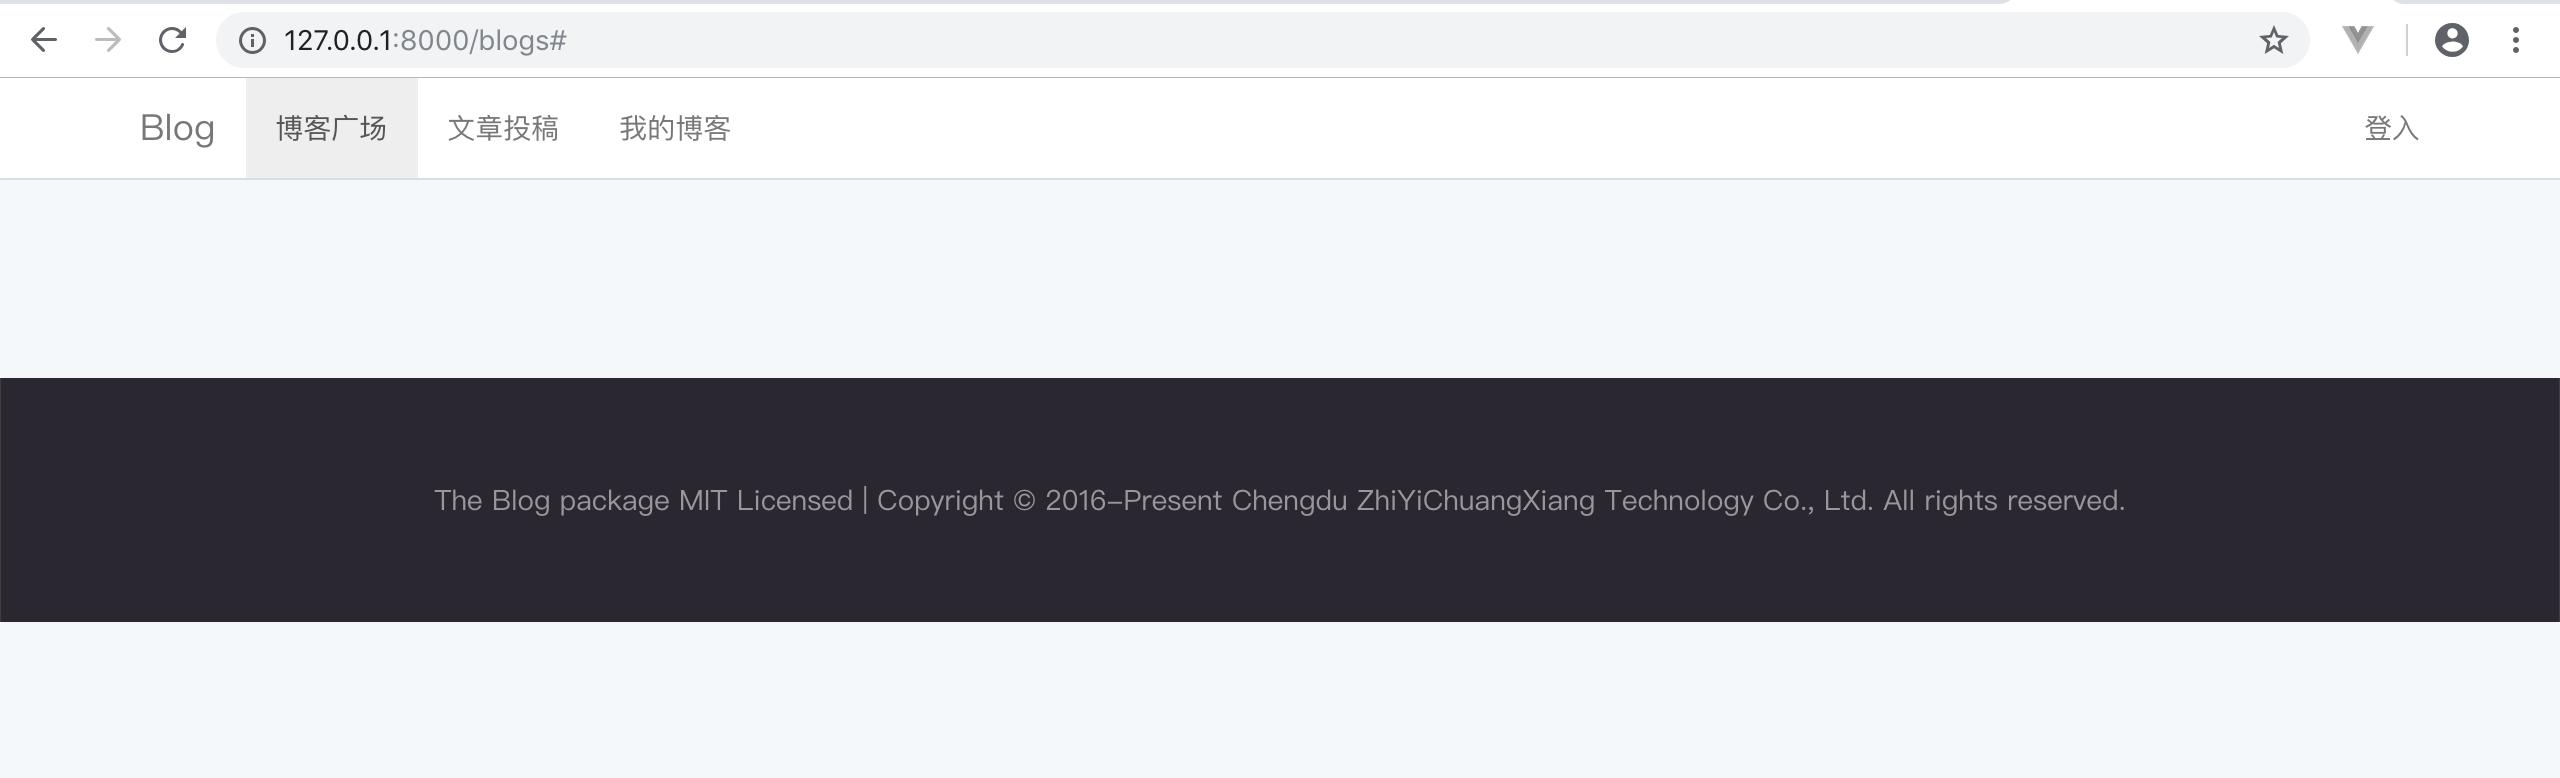
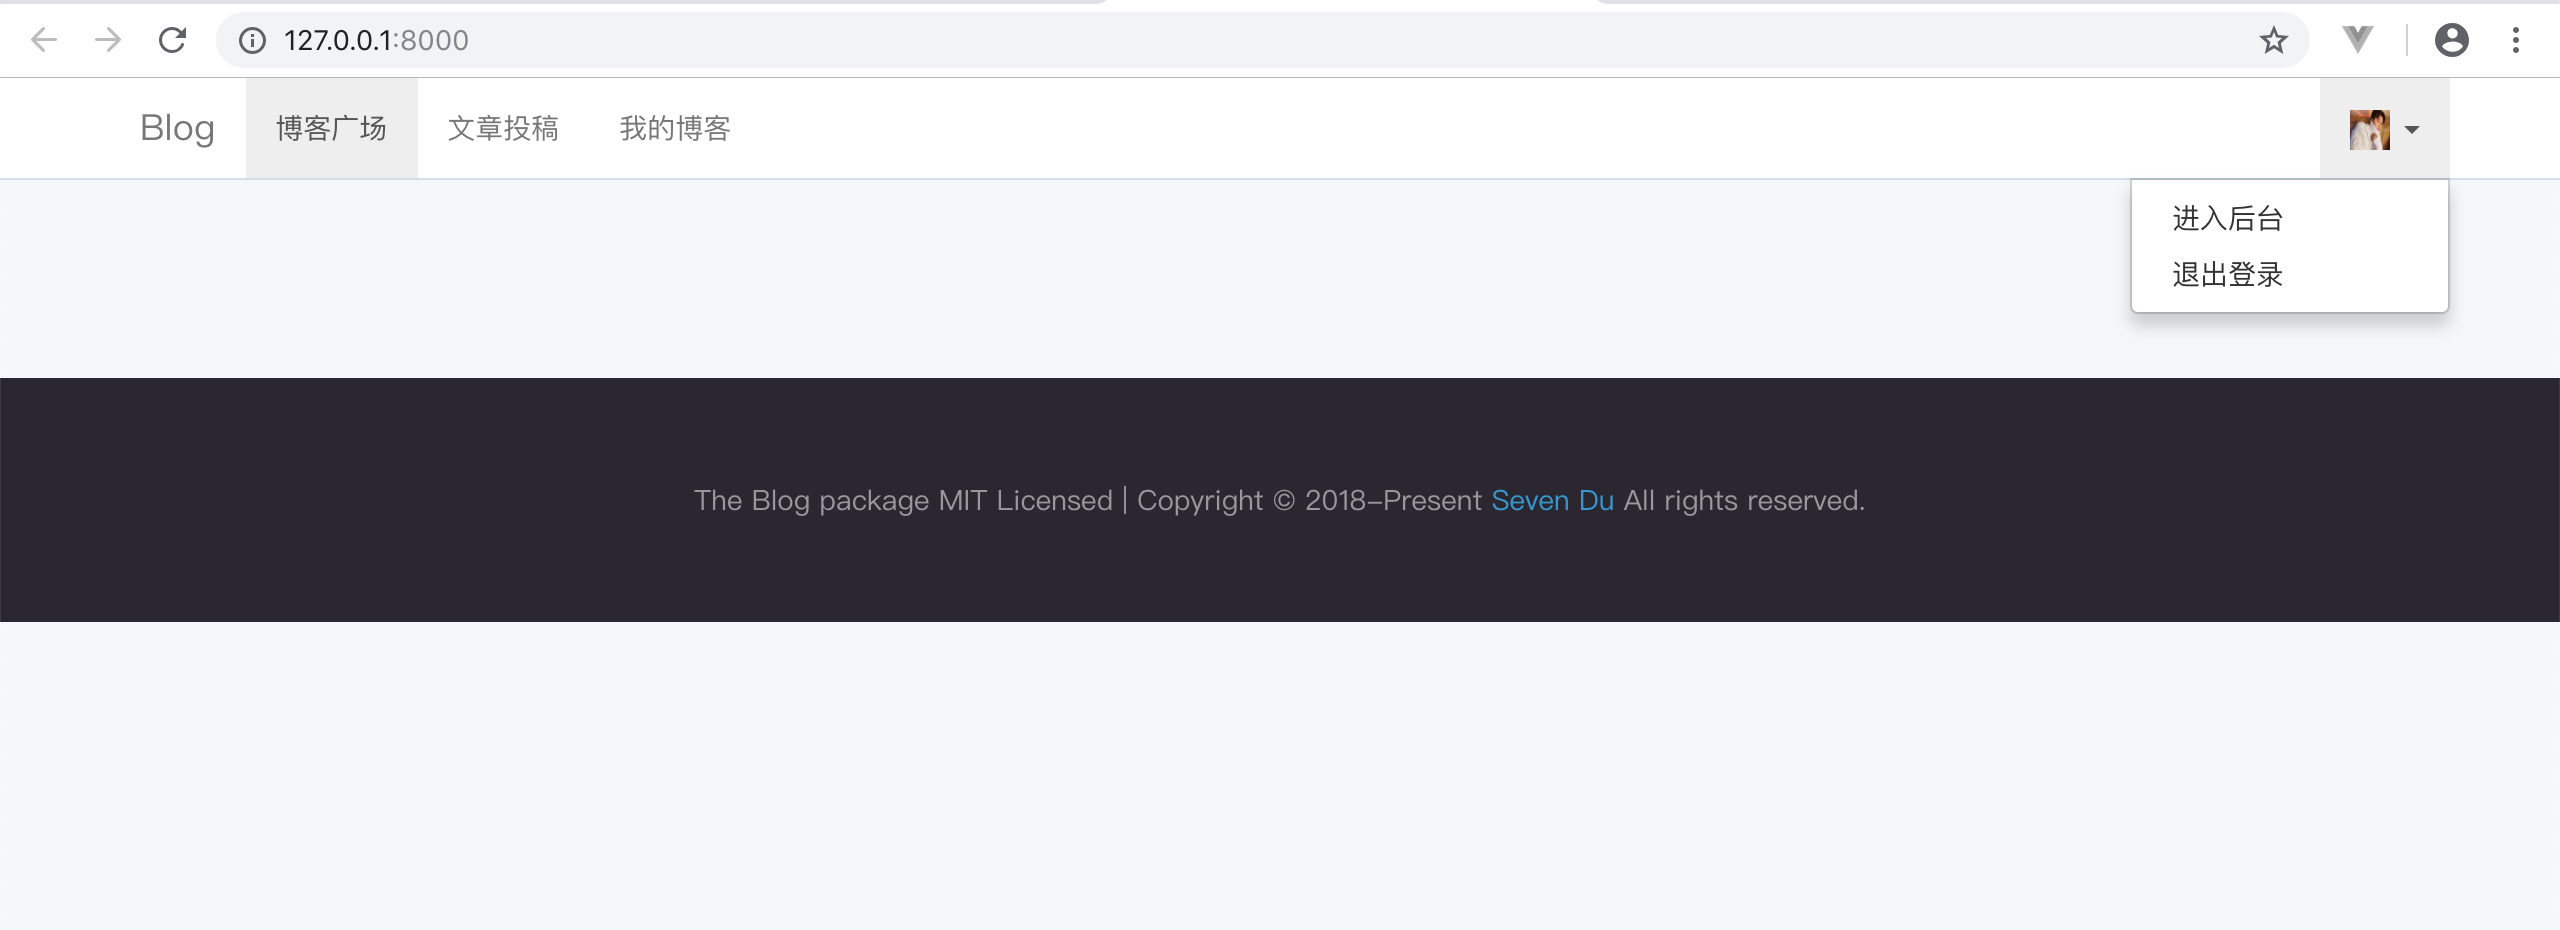
docs: 完成开发教程 Layout 部分教程

diff --git a/guide/dev/create-pages.md b/guide/dev/create-pages.md
@@ -132,10 +132,6 @@ class HomeController
 }
 ```
 
-然后我们访问 `/blogs` 你会看到下面的效果：
-
-<img :src="$withBase('/assets/img/guide/dev/create-pages-layout-view.png')" />
-
 ## 顶栏用户图标
 
 我们上面创建玩基础模板了，我们来处理下顶部用户状态吧，当用户没有登录的时候我们显示「登录按钮」，登录成功后我们显示用户头像和名字。
@@ -208,3 +204,40 @@ class HomeController
 ```
 
 然后保存，我们就完成了用户的登录与退出（因为 Plus 自带登录页面，所以无需再写登录页面）
+
+## 开源版设置 Blog 默认进入
+
+我们的开发教程是在开源版本的 Plus 程序上进行的，是不是觉得每次都要在 URL 输入 `/blogs` 进入很麻烦？我们现在就来设置默认用户打开就进入 Blog 首页即可！
+
+我们打开拓展包的 `routes/web.php` 文件：
+
+```php
+<?php
+
+use Illuminate\Support\Facades\Route;
+use SlimKit\Plus\Packages\Blog\Web\Controllers as Web;
+use Illuminate\Contracts\Routing\Registrar as RouteRegisterContract;
+
+Route::get('/', Web\HomeController::class.'@index');
+Route::group(['prefix' => 'blogs'], function (RouteRegisterContract $route) {
+    // TODO
+});
+```
+
+## 后台入口
+
+我们覆盖了默认首页，我们自定义的页面没有了默认首页的提供的后台入口，所以我们在顶部用户图标下拉菜单中增加后台入口吧！
+
+我们先打开包的 `resources/views/headers/user.blade.php` 中。在「退出登录」的 `li` 标签前面增加：
+
+```html
+@if (Auth::user()->ability('admin: login'))
+    <li><a href="{{ url('/admin') }}">进入后台</a></li>
+@endif
+```
+
+## 页面预览
+
+我们这一步就开发完成了所有页面公用的 Layout 部分，我们来看看效果吧！
+
+<img :src="$withBase('/assets/img/guide/dev/create-pages-layout-view.png')" />
